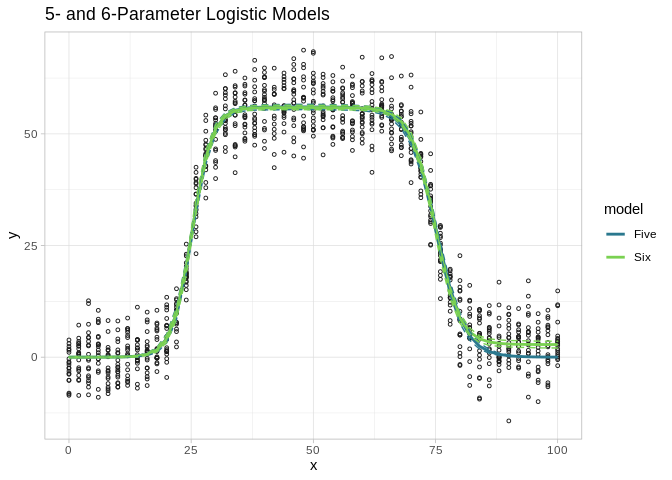
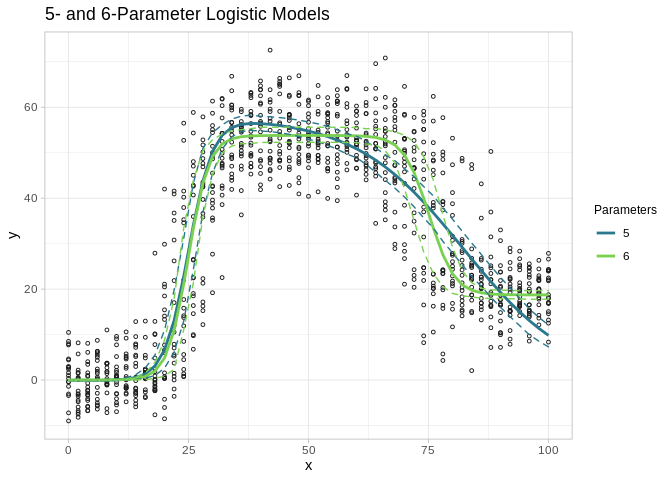
Unicode added to README
Unicode Greek characters added to the README text (replaces unrendered markdown).

diff --git a/README.md b/README.md
@@ -21,10 +21,10 @@ the model parameters can be interpreted. For example, in many cases,
 model parameters will correspond to important locations along the
 support axis where the midpoint or other key features of a logistic
 curve occur. Pinheiro and Bates (2000) also show that these models can
-be easily extended to incorporate hierachical data structures. For these
-reasons, I generally prefer NLME models over non-parametric methods for
-fitting nonlinear curves, such as splines or generalized additive
-models.
+be easily extended to incorporate hierarchical data structures. For
+these reasons, I generally prefer NLME models over non-parametric
+methods for fitting nonlinear curves, such as splines or generalized
+additive models.
 
 In the past, a major drawback of NLMEs was that they could be difficult
 to fit using maximum likelihood or related optimization methods due to
@@ -42,7 +42,7 @@ have largely circumvented these issues. The latest MCMC sampling
 algorithms (e.g., No-U-Turn and Hamiltonian Monte Carlo) are capable of
 efficiently exploring the parameter space of even poorly behaved (i.e.,
 multimodal and non-Gaussian) model posteriors, and can therefore provide
-reliable estimates of mulitlevel parameters. Additionally, Bayesian
+reliable estimates of multilevel parameters. Additionally, Bayesian
 estimation of NLME models may also be less sensitive to poor choices of
 starting values. Using Stan, potential starting values for the algorithm
 are sampled from a parameter’s prior distribution (if none are provided
@@ -57,10 +57,34 @@ In the following sections I will cover:
 
   - Model fitting and evaluation with RStan
   - Model comparisons with WAIC
-  - Mixture models with nonlinear mixed-effect
-    components
+  - Mixture models with nonlinear mixed-effect components
 
-<!-- end list -->
+## Model Fitting
+
+Each of the models presented here are variations of the logistic
+(sigmoid) curve:
+
+  - Three Parameters: The standard logistic curve with multilevel
+    parameters
+  - Five Parameters: Two logistic curves added together, with differing
+    rates and midpoints but a shared upper *y* limit
+  - Six Parameters: Two logistic curves added together, with differing
+    rates, midpoints, and *y* values of their lower asymptote(s)
+
+The parameters of the logistic curves (𝜃) are modeled as random-effects.
+
+![](figures/mm.gif)
+
+The Stan model used here also uses non-centering for estimation of the
+multilevel parameters. More details about non-centering and how it can
+improve model fitting are described in [Chapter 22.7 of the Stan
+Language
+Manual](https://mc-stan.org/docs/2_24/stan-users-guide/reparameterization-section.html).
+
+All models were estimated using Stan and RStan API package for R. Before
+launching into model-fitting, some critical packages need to be loaded
+and hyperparameter options
+    set.
 
 ``` r
 library(rstan)
@@ -128,7 +152,7 @@ library(caret)
 ``` r
 #Define Stan model fitting options
 rstan_options(auto_write = TRUE) #saves compiled stan model to storage
-options(mc.cores = parallel::detectCores()) #uses multicore processing
+options(mc.cores = parallel::detectCores()) #uses   multicore processing
 
 #Parameters to monitor
 sample_pars <-
@@ -148,40 +172,13 @@ control. <- list(
 )
 ```
 
-## Model Fitting
-
-Each of the models presented here are variations of the logistic
-(sigmoid) curve:
-
-  - Three Paramters: The standard logistic curve with multilevel
-    parameters
-  - Five Parameters: Two logistic curves added together, with differing
-    rates and midpoints but a shared upper *y* limit
-  - Six Parameters: Two logistic curves added together, with differing
-    rates, midpoints, and *y* values of their lower asymptote(s)
-
-The parameters of the logistic curves (“thetas”) are modeled as
-random-effects.
-
-![](figures/mm.gif)
-
-The Stan model used here also uses non-centering for estimation of
-multilevel parameters. More details about non-centering and how it can
-improve model fitting are described in [Chapter 22.7 of the Stan
-Language
-Manual](https://mc-stan.org/docs/2_24/stan-users-guide/reparameterization-section.html).
-
-The models were estimated using Stan and RStan API package for R. Before
-launching into model-fitting, some critical packages need to be loaded
-and hyperparameter options need to be set.
-
 ### Three Parameter Model
 
 The traditional logistic curve is used for modeling all sorts of data,
 and you may also recognize it as the same function used as the
 activation for an output layer of a neural net binary classifier. One
 area where logistic curves are commonly applied is to model the growth
-trajectories of plants and animals. Many mammals in particualar exhibit
+trajectories of plants and animals. Many mammals in particular exhibit
 patterns of growth from birth to maturation resembling sigmoid curves:
 an initial period of slow, steady growth followed by a intermediate
 stage of rapid development that eventually slows before ceasing around
@@ -304,22 +301,22 @@ predicted height of trees at early stages of development and
 under-predict heights at intermediate stages (e.g, around 10 years of
 age). As mentioned before, interpreting the model parameters in light of
 the original data is a cinch, requiring no transformations back to an
-original scale. For example, the population mean of \(\bar{\theta}_1\)
-(green) corresponds to the predicted upper limit of the height of
-Loblolly pine trees, which is estimated here to be 61.4 feet (95%
-highest posterior density interval: 59.0-65.4). Growth is most rapid
-near the midpoint of the curve, and the coordinate position of this
-point on the x-axis is given from the parameter \(\bar{\theta}_2\)
-(purple). This model predicts that the midpoint of tree growth occurs at
-roughly 11.8 years (95% HPDI: 11.3-12.3) of age.
+original scale. For example, the population mean of 𝜃₁ (green)
+corresponds to the predicted upper limit of the height of Loblolly pine
+trees, which is estimated here to be 61.4 feet (95% highest posterior
+density interval: 59.0-65.4). Growth is most rapid at ages near the
+midpoint of the curve, and the coordinate position of this point on the
+x-axis is given from the parameter 𝜃₂ (purple). This model predicts that
+the midpoint of tree growth occurs at roughly 11.8 years (95% HPDI:
+11.3-12.3) of age.
 
 ### Five Parameter Model
 
-The five parameter logistic model is actually the difference of two
-logistic curves, each sharing a common upper *y* limit but different
-characteristic growth rates and midpoints. First, I will generate some
-fake data, with random noise, in order to illustrate what such a curve
-might appear like.
+The five parameter logistic model is actually the sum of two logistic
+curves, each sharing a common upper *y* limit but differing
+characteristic midpoint and rate parameters. First, I will generate some
+fake data, with random noise, in order to illustrate how such a curve
+might appear..
 
 ``` r
 #Five parameter logistic function with random noise (tau) parameter
@@ -367,8 +364,8 @@ foraging routes influenced the timing, maximum displacement, and degree
 of individual variation in observed movement behavior.
 
 Here, I fit the Stan model to the example data generated above. Again,
-we must first put our data into a list for Stan before running the
-model.
+we must first put our data into a ‘list’ object for Stan before running
+the model.
 
 ``` r
 stan_data <- list(
@@ -484,10 +481,10 @@ ggplot() +
 This version is actually a modified version of the five parameter model,
 and was not included in Pinheiro and Bates (2000). Like the previous
 model, the function is simply two logistic curves added together, but
-with an extra parameter \(\theta_6 > 0\) that adjusts the location of
-the lower asymptote on the right curve relative to the position of the
-lower asymptote of the left curve. As before, I will generate some
-example data, with added random noise, and fit the model.
+with an extra parameter $𝜃₆ \> 0)at adjusts the location of the lower
+asymptote on the right curve relative to the position of the lower
+asymptote of the left curve. As before, I will generate some example
+data, with added random noise, and fit the model.
 
 ``` r
 logistic6 <- function(t1, t2, t3, t4, t5, t6, x, tau){
@@ -599,10 +596,10 @@ ggplot() +
 In some cases, it may be difficult to tell at a glance whether a five or
 six parameter curve is more appropriate for our data. In certain cases,
 the five parameter model could suffice without the potential for
-overfitting. However, the six-parameter version might also be considered
-for reasons related to the data generating process, where a better fit
-to the more complex model could serve as evidence in support of a
-hypothesis concerning the generating process.
+over-fitting. However, the six-parameter version might also be
+considered for reasons related to the data generating process, where a
+better fit to the more complex model could serve as evidence in support
+of a hypothesis concerning the generating process.
 
 One approach is to fit the same data to both models, and then assess
 their relative fit using an information criterion. In the calculation of
@@ -615,54 +612,37 @@ then define an R function to calculate the model WAIC directly from the
 `stanfit` object.
 
 ``` r
-colVars <- function (a){
-  diff <- a - matrix (colMeans(a), nrow(a), ncol(a), byrow=TRUE)
-  vars <- colMeans (diff^2)*nrow(a)/(nrow(a)-1)
+colVars <- function (a) {
+  diff <- a - matrix (colMeans(a), nrow(a), ncol(a), byrow = TRUE)
+  vars <- colMeans (diff^2) * nrow(a) / (nrow(a)-1)
   return (vars)
 }
 
-#Returns lppd, p_waic_1, p_waic_2, and waic
-waic <- function (stanfit){
+waic <- function (stanfit) {
   log_lik <- rstan::extract (stanfit, "log_lik")$log_lik
-  lppd <- sum (log (colMeans(exp(log_lik))))
-  p_waic_1 <- 2*sum (log(colMeans(exp(log_lik))) - colMeans(log_lik))
-  p_waic_2 <- sum (colVars(log_lik))
-  waic_2 <- -2*lppd + 2*p_waic_2
-  return (list (waic=waic_2, p_waic=p_waic_2, lppd=lppd, p_waic_1=p_waic_1))
+  lppd <- sum(log(colMeans(exp(log_lik))))
+  p_waic <- sum(colVars(log_lik))
+  waic <- -2 * lppd + 2 * p_waic
+  return(list(
+    waic = waic,
+    lppd = lppd,
+    p_waic = p_waic
+  ))
 }
 ```
 
 The simulated generating process used here is intended to fit best to a
 six-parameter logistic curve, but whose shape will also be reasonably
 approximated by the five-parameter model. This is achieved by setting
-the value of \(\theta_6 = 0.95\).
+the value of $₆ =0.95.{r waic\_data} \#Generate data from this function
+x \<- seq(0, 100, by = 2) \#x-axis values y\_data = list() n\_curves \<-
+20 for(i in 1:n\_curves){ set.seed(i^2) x = x t1 = 55 t2 = 25 t3 = 2 t4
+= 75 t5 = 2.5 t6 = 0.95 y\_data\[\[i\]\] = logistic6(t1, t2, t3, t4, t5,
+t6, x, tau = 5) }
 
-``` r
-#Generate data from this function
-x <- seq(0, 100, by = 2) #x-axis values
-y_data = list()
-n_curves <- 20
-for(i in 1:n_curves){
-  set.seed(i^2)
-  x = x
-  t1 = 55
-  t2 = 25
-  t3 = 2
-  t4 = 75
-  t5 = 2.5
-  t6 = 0.95
-  y_data[[i]] = logistic6(t1, t2, t3, t4, t5, t6, x, tau = 5)
-}
-
-y_data <- y_data  %>% 
-  melt() %>%
-  mutate(x=rep(seq(0, 100, by = 2), times=20))
-names(y_data) <- c("y","id","x")
-qplot(x=x, y=y, data=y_data, group=id) + 
-  ggtitle("Generated Data")
-```
-
-![](README_files/figure-gfm/waic_data-1.png)<!-- -->
+y\_data \<- y\_data %\>% melt() %\>% mutate(x=rep(seq(0, 100, by = 2),
+times=20)) names(y\_data) \<- c(“y”,“id”,“x”) qplot(x=x, y=y,
+data=y\_data, group=id) + ggtitle(“Generated Data”) \`\`\`
 
 Now, these data are fitted to both the five and six parameter models.
 Note, all that is needed is to change the value of `stan_data$K` from 5
@@ -677,6 +657,19 @@ stan_data <- list(
   x = y_data$x,
   y = y_data$y
 )
+
+#Function to pass initial values
+initList <- function(chain_id){
+  list(
+    "theta[1]" = rep(log(50), stan_data$I),
+    "theta[2]" = rep(log(1), stan_data$I),
+    "theta[3]" = rep(log(10), stan_data$I),
+    "theta[4]" = rep(log(50), stan_data$I),
+    "theta[5]" = rep(log(10), stan_data$I),
+    "theta[6]" = rep(log(0.65), stan_data$I)
+  )
+}
+
 
 five <- stan(
   verbose = FALSE,
@@ -777,21 +770,23 @@ y_ci6 <-
     )) %>%
   hdi(0.95)
 
+#Plotting data
 dy = cbind(xs,
            c(y_est5, y_est6), 
            t(cbind(y_ci5, y_ci6))
            ) %>%
   data.frame()
-dy$model <- rep(c("Five","Six"), each = nrow(dy)/2)
+dy$model <- rep(c("5","6"), each = nrow(dy)/2)
 names(dy) <- c("x","y","lower","upper","model")
 
 ggplot() +
   theme_light() +
+  theme(legend.title = element_text(size=9)) +
   ggtitle("5- and 6-Parameter Logistic Models") +
   geom_point(data=y_data, aes(x=x, y=y), color="gray10", shape=1, size=1) +
   geom_line(data=dy, aes(x=x, y=y, color=model), size=1) +
   geom_ribbon(data=dy, aes(x=x, ymin=lower, ymax=upper, color=model), fill=alpha("white",0), linetype=2, size=0.5, show.legend = FALSE) +
-  scale_color_viridis_d(begin = 0.4, end=0.8) +
+  scale_color_viridis_d("Parameters", begin = 0.4, end=0.8) +
   scale_x_continuous("x") +
   scale_y_continuous("y")
 ```
@@ -811,9 +806,9 @@ sapply(list(five, six), waic) %>%
   t()
 ```
 
-    ##      waic     p_waic   lppd      p_waic_1
-    ## [1,] 6200.801 17.89129 -3082.509 17.30496
-    ## [2,] 6151.021 20.93063 -3054.58  20.33366
+    ##      waic     lppd      p_waic  
+    ## [1,] 6724.446 -3287.86  74.3626 
+    ## [2,] 6206.818 -3031.846 71.56245
 
 From this table, we see that the six parameter model provides a better
 relative fit to the data (**WAIC = 6151**) than the five parameter
@@ -821,11 +816,11 @@ alternative (**WAIC = 6201**), despite the greater complexity.
 
 ## Mixture Model with NLME Components
 
-Imagine observations produced by two separate generating processes,
-process A occuring at a rate of (\(\psi\)) and process B at
-(\(1-\psi\)). Furthermore, let us assume that process A produces data
-that can be readily modeled by a three parameter logistic model,
-described here, and process B by a six parameter curve.
+Imagine observations produced by two separate generating processes, with
+process A occurring in proportion \(\psi\) to process B. Furthermore,
+let us assume that process A produces data that can be readily modeled
+by a three parameter logistic model, described here, and process B by a
+six parameter curve.
 
 ``` r
 xs <- seq(0, 100, by = 2)
@@ -896,10 +891,11 @@ probabilities for each observation using Bayes’ theorem:
 ![](figures/bayes.gif)
 
 The code for calculating component membership probabilities is found in
-the `generated quantities` block. Once fitted, each observation *n* can
-be assigned membership to a model component *z* by averaging over the
-*R* membership probabilities from each realization *r* (sample) from the
-model posterior:
+the `generated quantities` block of the Stan file
+`non_linear_mixture.stan`. Once fitted, each observation can be assigned
+membership to a model component *z* by averaging over the *R* membership
+probabilities from each realization *r* (sample) from the model
+posterior:
 
 ![](figures/psi_hat.gif)
 
@@ -1073,7 +1069,6 @@ ggplot(data=y_data, aes(x=x, y=y, color=process)) +
 ``` r
 #Check accuracy of predictions
 z_hat <- ifelse(y_data$prob > 0.5, "A", "B")
-correct <- z_hat == y_data$component
 table(estimated=z_hat, true=y_data$component) %>%
   confusionMatrix()
 ```
@@ -1109,8 +1104,8 @@ table(estimated=z_hat, true=y_data$component) %>%
 Overall, the model performed well in this test, accurately recovering
 almost 95% of the correct class labels from the input data. However, it
 is worth mentioning that this accuracy was greater for observations from
-component “B”. Only 33 observations were misclassified as belonging to
-“A” when actually from “B” compared with 185 observations from “A”
+component “B”. Only 33 observations were wrongly classified as belonging
+to “A” when actually from “B” compared with 185 observations from “A”
 that were misclassified as “B”. Combining NLME models in a mixture model
 is sure asking a lot from the optimizer. But, the NUTS algorithm and
 Stan language proved to be up to the task.
